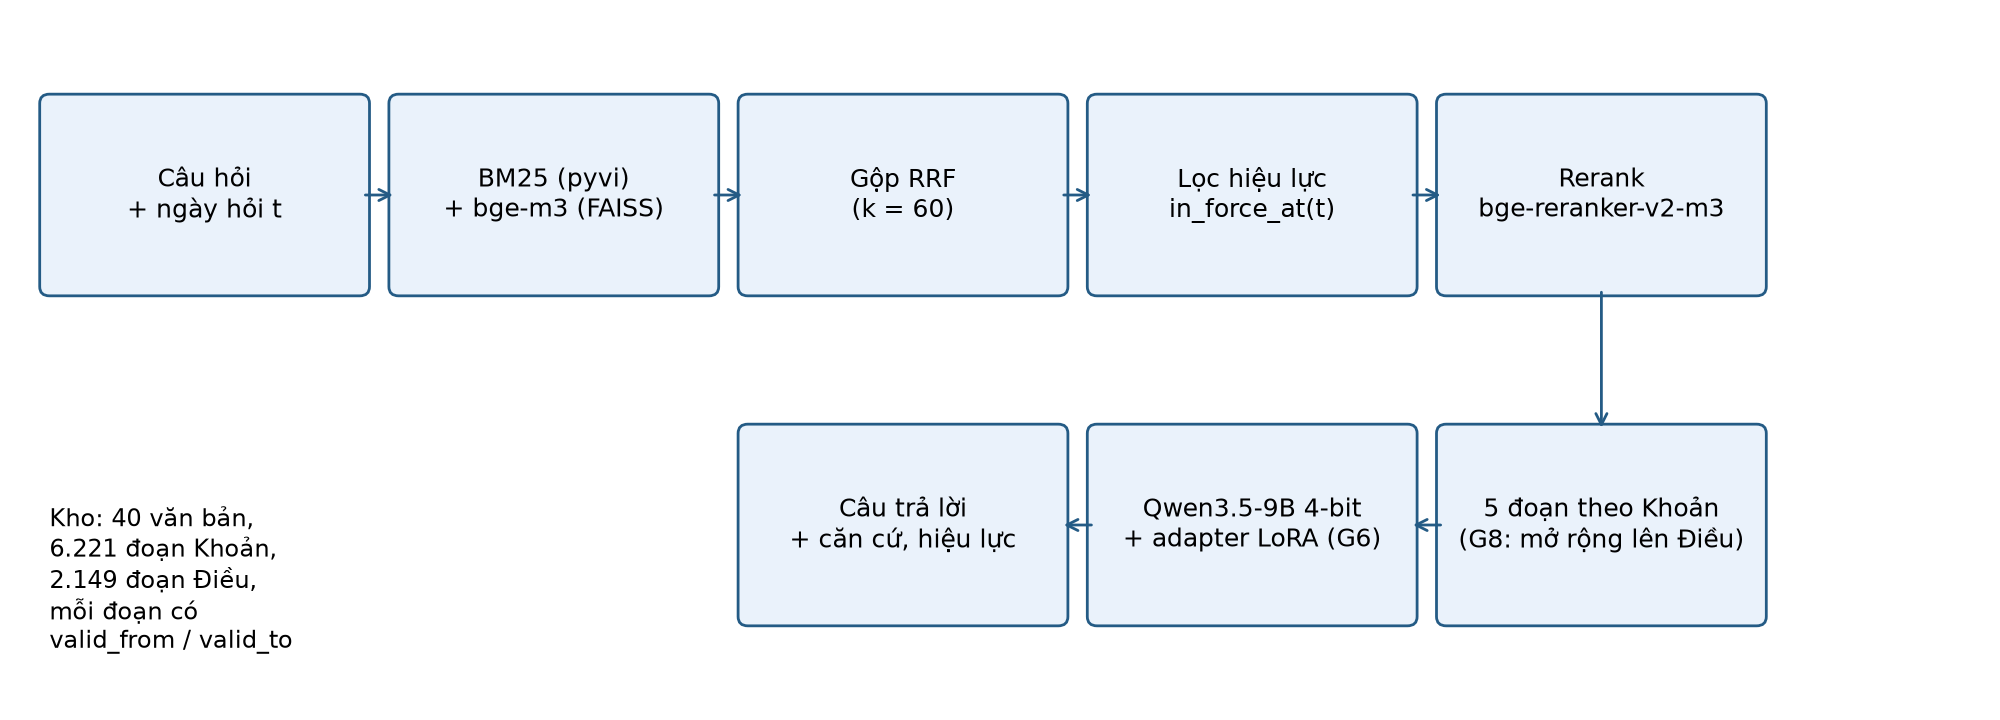
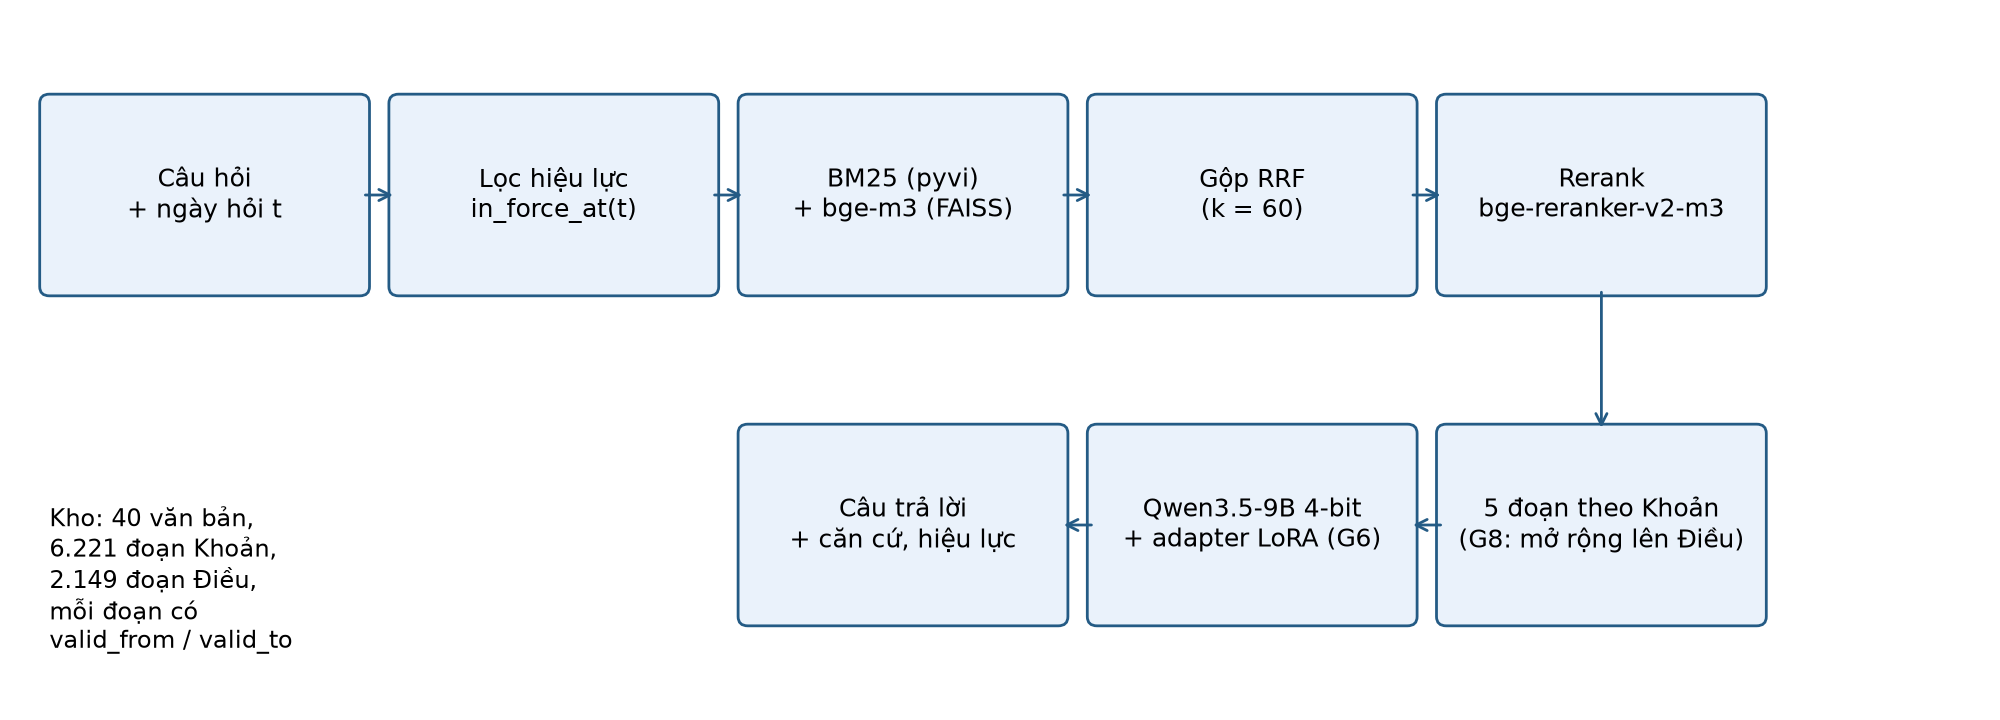
Report 3: the validity filter runs inside BM25/vector, before fusion

Changed region(s): [[0.403, 0.2139, 0.527, 0.3056], [0.217, 0.2139, 0.341, 0.3056], [0.589, 0.2139, 0.682, 0.3056]]

diff --git a/reports/report3/make_figures.py b/reports/report3/make_figures.py
@@ -27,9 +27,9 @@ def pipeline() -> None:
     ax.axis("off")
     boxes = [
         (0.1, 2.2, "Câu hỏi\n+ ngày hỏi t"),
-        (1.9, 2.2, "BM25 (pyvi)\n+ bge-m3 (FAISS)"),
-        (3.7, 2.2, "Gộp RRF\n(k = 60)"),
-        (5.5, 2.2, "Lọc hiệu lực\nin_force_at(t)"),
+        (1.9, 2.2, "Lọc hiệu lực\nin_force_at(t)"),
+        (3.7, 2.2, "BM25 (pyvi)\n+ bge-m3 (FAISS)"),
+        (5.5, 2.2, "Gộp RRF\n(k = 60)"),
         (7.3, 2.2, "Rerank\nbge-reranker-v2-m3"),
         (7.3, 0.4, "5 đoạn theo Khoản\n(G8: mở rộng lên Điều)"),
         (5.5, 0.4, "Qwen3.5-9B 4-bit\n+ adapter LoRA (G6)"),
